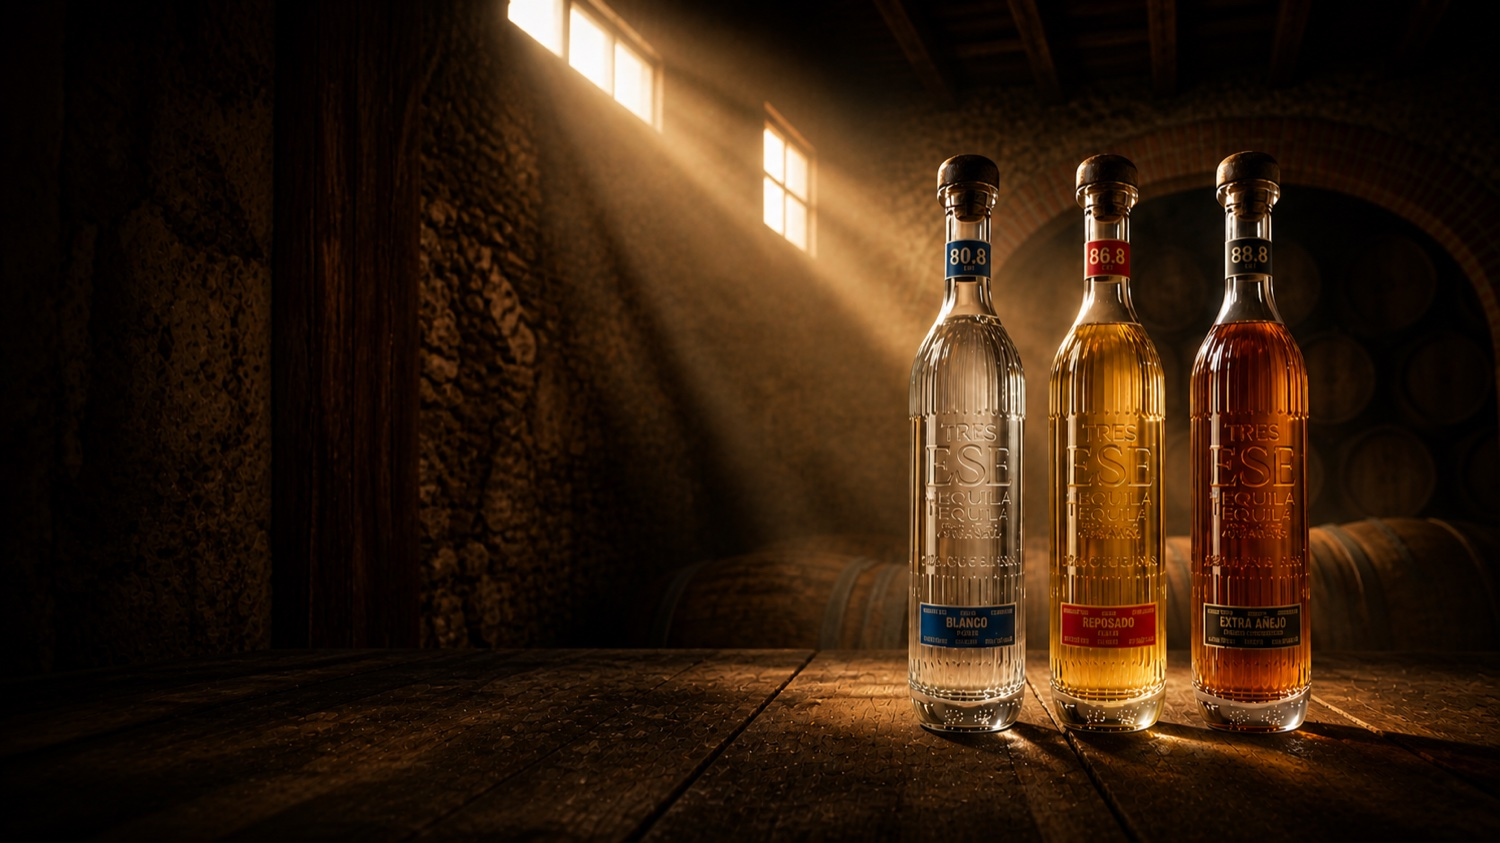
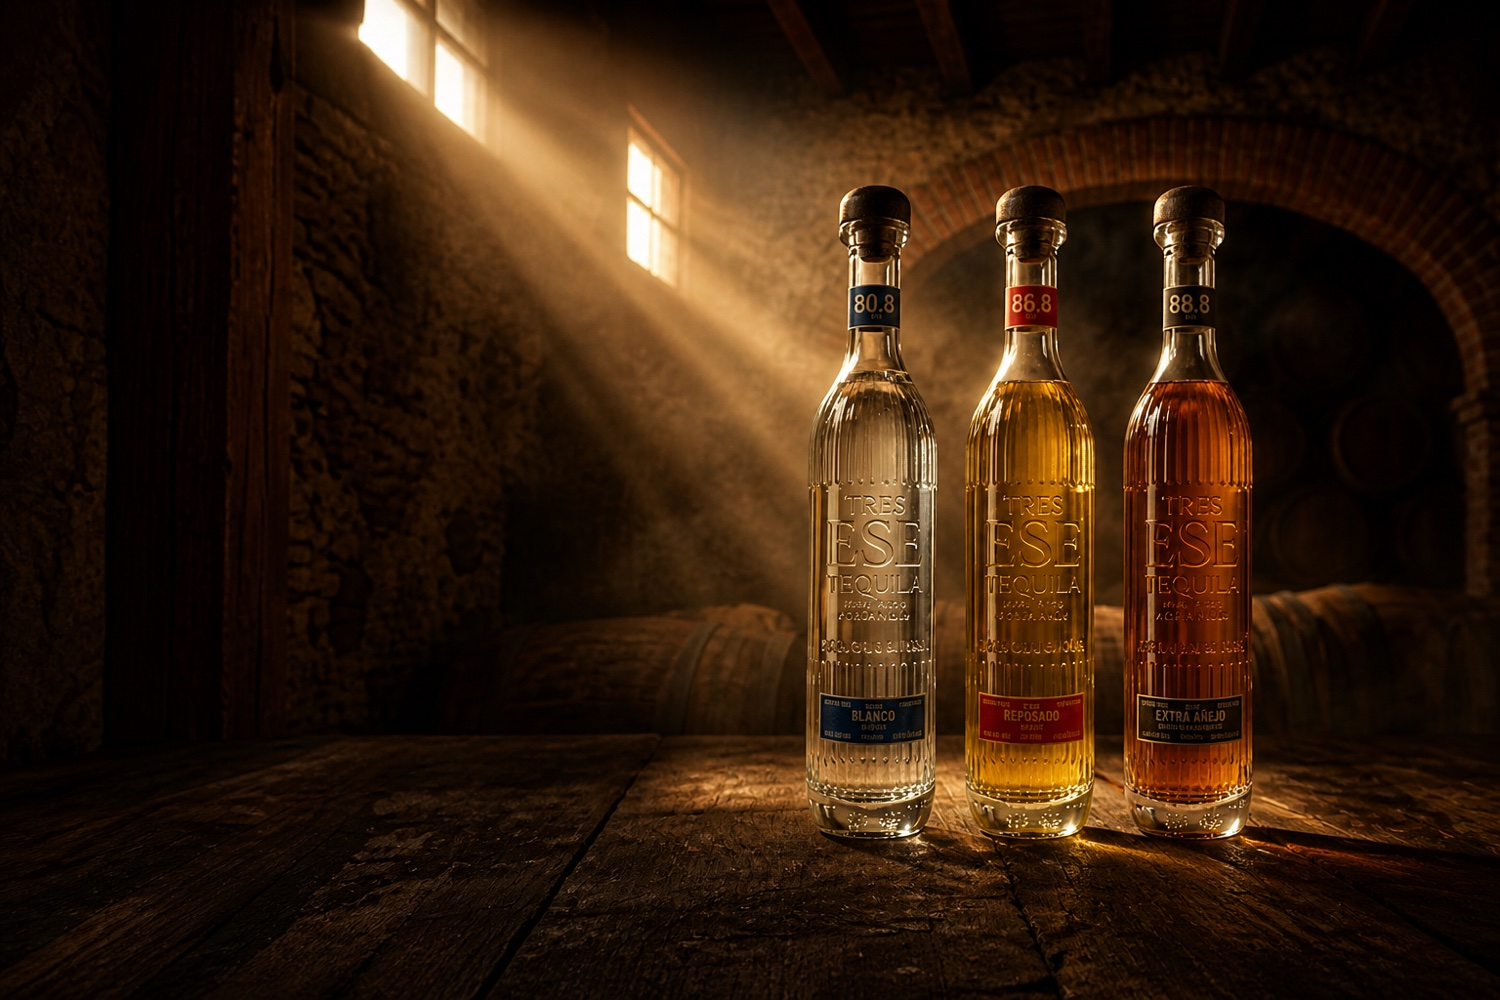
Update hero-cellar.jpg with new image (1536x1024 PNG → 1500x1000 JPG, 370 KB)
Note: new image aspect is 1.5 (was 1.74) — slightly more square. The
background-size cap of 1500px still matches.

diff --git a/zh.html b/zh.html
@@ -14,7 +14,7 @@
   <link rel="preconnect" href="https://fonts.gstatic.com" crossorigin />
   <link href="https://fonts.googleapis.com/css2?family=Cormorant+Garamond:ital,wght@0,300;0,400;0,500;0,600;1,300;1,400&family=Inter:wght@300;400;500;600&family=Noto+Serif+SC:wght@300;400;500&family=Noto+Sans+SC:wght@300;400;500&display=swap" rel="stylesheet" />
 
-  <link rel="stylesheet" href="css/style.css?v=20260430y" />
+  <link rel="stylesheet" href="css/style.css?v=20260430z" />
   <style>
     /* Chinese typography fallback — pair Noto Sans/Serif SC with the brand fonts */
     :root{

diff --git a/es.html b/es.html
@@ -14,7 +14,7 @@
   <link rel="preconnect" href="https://fonts.gstatic.com" crossorigin />
   <link href="https://fonts.googleapis.com/css2?family=Cormorant+Garamond:ital,wght@0,300;0,400;0,500;0,600;1,300;1,400&family=Inter:wght@300;400;500;600&display=swap" rel="stylesheet" />
 
-  <link rel="stylesheet" href="css/style.css?v=20260430y" />
+  <link rel="stylesheet" href="css/style.css?v=20260430z" />
 </head>
 <body>
 

diff --git a/index.html b/index.html
@@ -14,7 +14,7 @@
   <link rel="preconnect" href="https://fonts.gstatic.com" crossorigin />
   <link href="https://fonts.googleapis.com/css2?family=Cormorant+Garamond:ital,wght@0,300;0,400;0,500;0,600;1,300;1,400&family=Inter:wght@300;400;500;600&display=swap" rel="stylesheet" />
 
-  <link rel="stylesheet" href="css/style.css?v=20260430y" />
+  <link rel="stylesheet" href="css/style.css?v=20260430z" />
 </head>
 <body>
 
